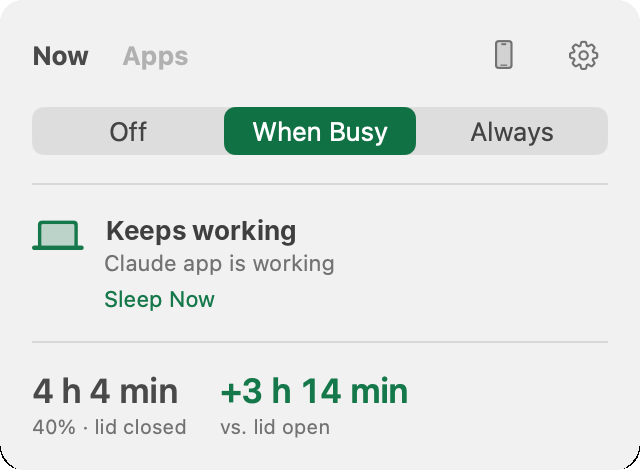
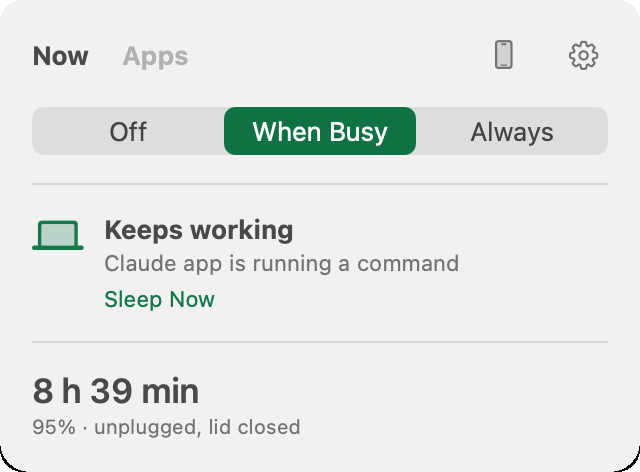
Site: fresh real Mac panel screenshots, Settings › Agents path
Claude-Session: https://claude.ai/code/session_01YNn7TBSiHw8UPKrDCXE23Q

diff --git a/index.html b/index.html
@@ -144,7 +144,7 @@
       <p class="meta">Free · <a href="downloads/Nocturnal-1.0.0-mac.zip">Mac</a> · <a href="downloads/Nocturnal-1.0.0-windows-x86_64.zip">Windows</a> · <a href="downloads/nocturnal-1.0.0-linux-x86_64.tar.gz">Linux</a></p>
     </div>
     <figure class="shot">
-      <img src="panel-now.png" alt="Nocturnal's menu: When Busy is on, and closing the lid keeps it working" width="640" height="470">
+      <img src="panel-now.png" alt="Nocturnal's menu: When Busy is on, and closing the lid keeps it working" width="640" height="472">
     </figure>
     <div class="install">
       <p class="meta"><code>brew install --cask 12alexanderbell-graham/ajar/nocturnal</code></p>
@@ -178,7 +178,7 @@
         <div class="item"><h3>Battery and heat limits</h3></div>
         <div class="item"><h3>Puts everything back</h3></div>
       </div>
-      <img src="panel-apps.png" alt="Nocturnal's Apps tab: what keeps it awake and what closing the lid pauses" width="640" height="606">
+      <img src="panel-apps.png" alt="Nocturnal's Apps tab: what keeps it awake, Approve everything, and what closing the lid pauses" width="640" height="906">
     </div>
   </section>
 
@@ -195,7 +195,7 @@
 
   <section class="narrow center" aria-labelledby="ai-h">
     <h2 id="ai-h">Your AI can use it too</h2>
-    <p class="sub">Connect it in Settings › AI Agents, then give your agent this prompt.</p>
+    <p class="sub">Connect it in Settings › Agents, then give your agent this prompt.</p>
     <button class="btn" id="copy" type="button">Copy the prompt</button>
     <pre id="prompt" hidden>Nocturnal is installed on this laptop. It keeps the machine awake with the lid closed while you work, and cuts power use while the lid is shut. You can control all of it through the nocturnal MCP tools (or the nocturnal command). Set it up for me:
 1. Read Nocturnal's settings and power report to see every setting and what is using power right now.
